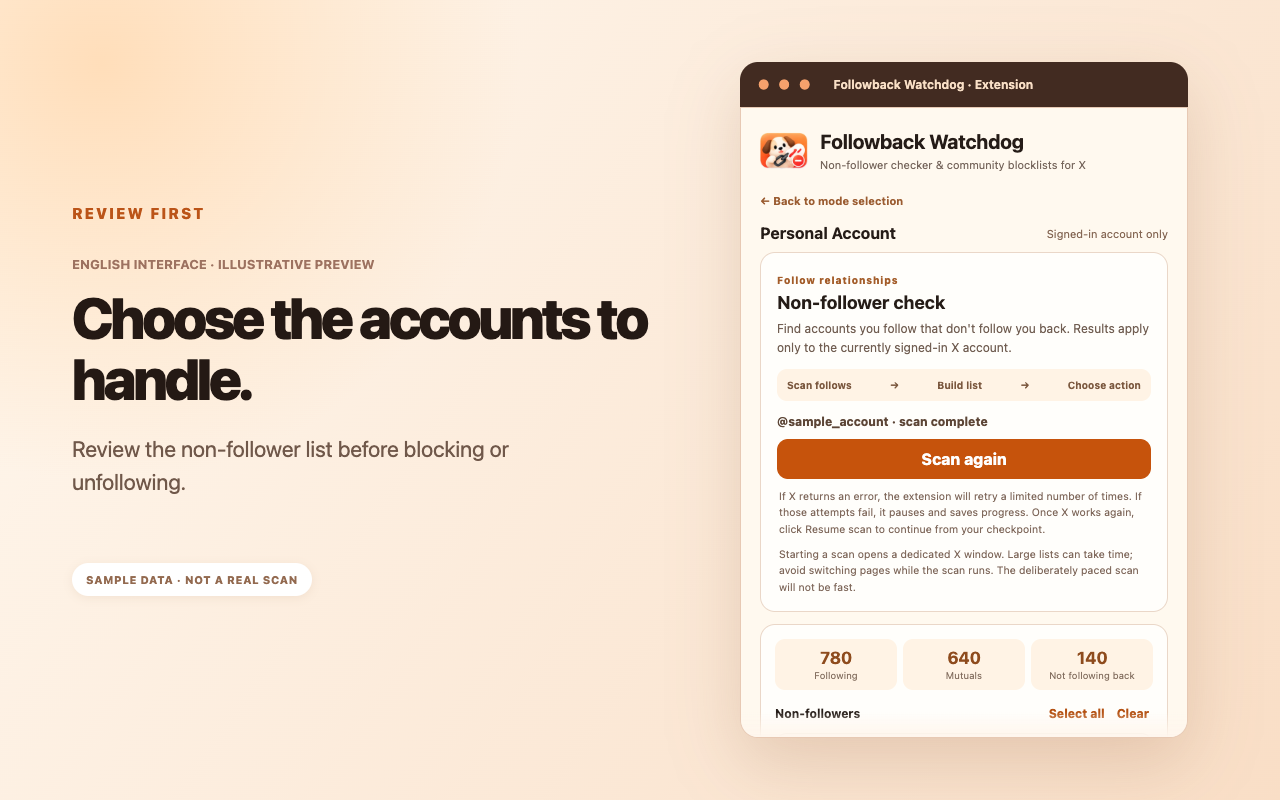
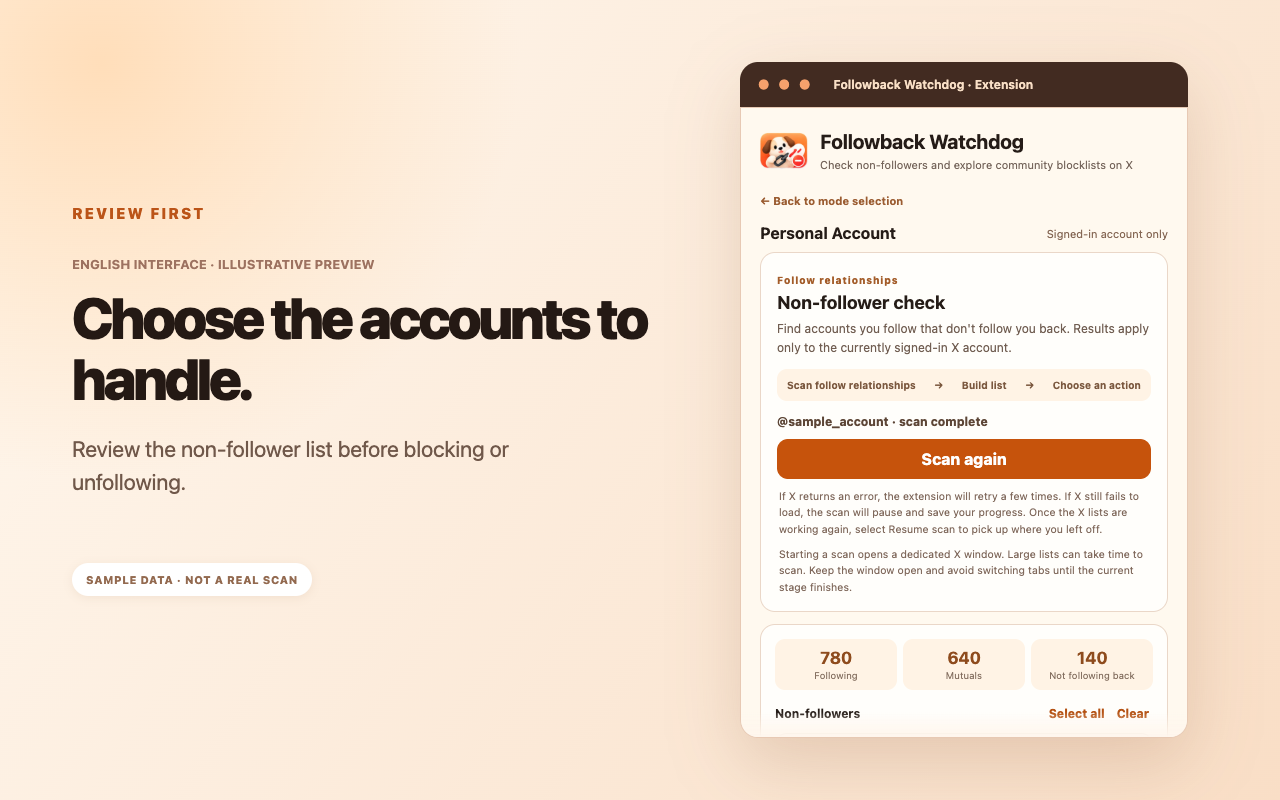
Proofread English copy and refresh six UI screenshots

diff --git a/en/index.html b/en/index.html
@@ -30,9 +30,9 @@
 <main id="top">
   <section class="hero hero-clean">
     <div class="hero-copy reveal">
-      <span class="eyebrow">X / Twitter follow-relationship tool</span>
+      <span class="eyebrow">Manage your follow relationships on X / Twitter</span>
       <h1>Two modes.<br><em>Two different needs.</em></h1>
-      <p class="lead">Followback Watchdog does more than check non-followers. Use<strong>Personal Account mode</strong>to review your current follow relationships, or use<strong>Community Blocklist mode</strong>to browse a shared blocklist curated from X community reports.</p>
+      <p class="lead">Followback Watchdog offers more than a non-follower check. Use <strong>Personal Account mode</strong> to review your current follow relationships, or use <strong>Community Blocklist mode</strong> to review a shared blocklist curated from reports by the Chinese-speaking X community.</p>
       <div class="trust"><span>No X password required</span><span>Doesn't access DMs</span><span>No automatic blocking</span></div>
     </div>
     <div class="hero-visual reveal">
@@ -63,14 +63,14 @@
       <article class="mode-card mode-private reveal">
         <span class="mode-label">Personal Account mode</span>
         <h3>Personal Account: Who do I follow that doesn't follow me back?</h3>
-        <p>This mode analyzes<strong>your own account</strong>. It compares your current Following and Followers lists to identify accounts you follow that do not currently follow you back.</p>
+        <p>This mode analyzes <strong>your own account</strong>. It compares your current Following and Followers lists to identify accounts you follow that do not currently follow you back.</p>
         <ul><li>Best for reviewing your own follow relationships</li><li>Shows current non-followers, not historical unfollows</li><li>You decide whether to block or unfollow after reviewing the list</li></ul>
       </article>
       <article class="mode-card mode-community reveal">
         <span class="mode-label">Community Blocklist mode</span>
-        <h3>Community Blocklist: Review accounts gathered from community reports</h3>
-        <p>This mode<strong>does not scan your private follow relationships</strong>. It presents a separate list based on public posts, follow-back discussions, voluntary submissions and manual review.</p>
-        <ul><li>Best for checking community reports before following or engaging</li><li>You can open the shared list without running a personal scan</li><li>If you want to avoid an account, you can choose to block it</li></ul>
+        <h3>Community Blocklist: Explore accounts reported by the community</h3>
+        <p>This mode <strong>does not scan your private follow relationships</strong>. It presents a separate list based on public posts, follow-back discussions, voluntary submissions and manual review.</p>
+        <ul><li>Useful for checking community reports before following or engaging</li><li>You can open the shared list without running a personal scan</li><li>If you want to avoid an account, you can choose to block it</li></ul>
       </article>
     </div>
   </section>
@@ -112,8 +112,8 @@
       <div class="community-focus-copy reveal">
         <span class="kicker">Why a shared list?</span>
         <h2 id="community-title">Review community reports before you follow</h2>
-        <p>Personal Account shows<strong>your own current relationships</strong>; Community Blocklist gathers public reports and user submissions in one place.</p>
-        <p>Before following back, engaging or deciding to follow someone, you can check the community list. If there's an account you would rather avoid, you can<strong>choose to block it</strong> without having to interact with it first.</p>
+        <p>Personal Account shows <strong>your own current relationships</strong>; Community Blocklist gathers public reports and user submissions in one place.</p>
+        <p>Before following back, engaging or deciding to follow someone, you can check the community list. If there's an account you would rather avoid, you can <strong>choose to block it</strong> without having to interact with it first.</p>
         <div class="community-caution">Community entries are for reference, not automatic judgments. You always decide and confirm whether to block.</div>
       </div>
       <div class="community-focus-visual reveal"><img src="assets/store-en-05-community.png" alt="English community blocklist sample interface"></div>
@@ -146,7 +146,7 @@
     </div>
   </section>
 
-  <aside class="deal-poster reveal" aria-labelledby="dealPosterTitle"><div class="deal-poster-copy"><span class="deal-poster-kicker">Creator rate estimate · Free</span><h2 id="dealPosterTitle">What could one sponsored post<br><em>from your account be worth?</em></h2><p>Estimate a potential sponsorship rate range using platform, audience size, engagement and content category.</p><div class="deal-poster-platforms"><span>X</span><span>Threads</span><span>YouTube</span><span>TikTok</span></div></div><div class="deal-poster-action"><span class="deal-poster-price"><small>Estimated sponsorship value</small><strong>$ ?</strong></span><a class="deal-poster-button" href="https://jiedanfadan.com/en/value-check">Try the free calculator <span aria-hidden="true">↗</span></a></div></aside>
+  <aside class="deal-poster reveal" aria-labelledby="dealPosterTitle"><div class="deal-poster-copy"><span class="deal-poster-kicker">Creator rate estimate · Free</span><h2 id="dealPosterTitle">How much could you charge<br> <em>for a sponsored post?</em></h2><p>Estimate a potential sponsorship rate range using platform, audience size, engagement and content category.</p><div class="deal-poster-platforms"><span>X</span><span>Threads</span><span>YouTube</span><span>TikTok</span></div></div><div class="deal-poster-action"><span class="deal-poster-price"><small>Estimated sponsorship value</small><strong>$ ?</strong></span><a class="deal-poster-button" href="https://jiedanfadan.com/en/value-check">Try the free calculator <span aria-hidden="true">↗</span></a></div></aside>
 
   <section class="section articles-section" aria-labelledby="articles-title">
     <div class="articles-head">
@@ -167,7 +167,7 @@
   </section>
 
 </main>
-<footer class="site-footer"><div class="footer-top"><div><strong>Followback Watchdog</strong><span>Check non-followers, review community lists, block or unfollow</span></div><div class="footer-links"><a href="#privacy">Privacy notice</a><a href="https://jiedanfadan.com/en/">Brand Deal Buddy</a><a href="https://jiedanfadan.com/en/value-check">Rate calculator</a><a href="https://x.com/woyongyuangeson/status/2098974760801870134?s=20" target="_blank" rel="noopener noreferrer">Feedback</a></div></div><details class="compliance"><summary>Additional notes</summary><div class="compliance-copy"><p>Followback Watchdog is not affiliated with X. A non-follower result reflects current follow relationships only; it does not establish that someone previously unfollowed you.</p><p>The extension reads and interacts with X web pages, so interface updates and loading failures can affect its operation. Actions are paced deliberately, but X may still restrict automated activity.</p><p>Before using automated actions, review <a href="https://help.x.com/en/rules-and-policies/x-automation" target="_blank" rel="noopener noreferrer">X's automation rules</a>。</p></div></details></footer>
+<footer class="site-footer"><div class="footer-top"><div><strong>Followback Watchdog</strong><span>Check non-followers, review community lists, block or unfollow</span></div><div class="footer-links"><a href="#privacy">Privacy notice</a><a href="https://jiedanfadan.com/en/">Brand Deal Buddy</a><a href="https://jiedanfadan.com/en/value-check">Rate calculator</a><a href="https://x.com/woyongyuangeson" target="_blank" rel="noopener noreferrer">Contact on X</a></div></div><details class="compliance"><summary>Additional notes</summary><div class="compliance-copy"><p>Followback Watchdog is not affiliated with X. A non-follower result reflects current follow relationships only; it does not establish that someone previously unfollowed you.</p><p>The extension reads and interacts with X web pages, so interface updates and loading failures can affect its operation. Actions are paced deliberately, but X may still restrict automated activity.</p><p>Before using automated actions, review <a href="https://help.x.com/en/rules-and-policies/x-automation" target="_blank" rel="noopener noreferrer">X's automation rules</a>.</p></div></details></footer>
 <script src="app.js" defer></script>
 <script type="module" src="https://static.cloudflareinsights.com/beacon.min.js/vce701823e78c4301a35b7e07294d87301792088814092" integrity="sha512-UKNk8GbxkABxKcXYuLkO16EleLGUkcvJWtpSNmExE0Too3ZaFAxTscNWEc1OdAv5/BikHawapSCaiD2XCmp+Bw==" data-cf-beacon='{"version":"2024.11.0","token":"52970abb04f5446e87ad08dc6fbe6f1e","r":1,"spa":2}' crossorigin="anonymous"></script>
 </body></html>

diff --git a/en/article/x-twitter-unfollow-checker-community-list/index.html b/en/article/x-twitter-unfollow-checker-community-list/index.html
@@ -15,7 +15,7 @@
 <img class="art" src="../../assets/store-en-06-dual-mode.png" alt="Illustrative English extension interface with sample data">
 <p class="date">English-language guide · Updated October 2026</p>
 <section><h2>Quick answers</h2><p class="block">To check who you currently follow without a follow-back, choose Personal Account mode. It compares the signed-in account's Following and Followers lists.</p><p class="block">To review accounts reported by other users, open Community Blocklist mode. The shared list is independent of your personal followers.</p><p class="block">Neither mode blocks anyone automatically. You must review accounts, select an action and confirm it. The extension does not request your X password or read private messages.</p></section>
-<section><h2>Two modes that solve different problems</h2><h3>Personal Account: Review your own current relationships</h3><p class="block">Personal Account mode looks only at the currently signed-in X account. It compares whom you follow against who follows you, then identifies current non-followers.</p><p class="block">This is a snapshot, not a historical record. Someone on the list might never have followed you, or might have unfollowed at some point. The tool cannot tell which without historical data.</p><h3>Community Blocklist: Review community reports</h3><p class="block">The second mode is a separately maintained list of accounts gathered from public posts, follow-back discussions, user submissions and manual review. It does not derive from your own personal follow relationships.</p><p class="block">You can browse it before following, following back or continuing to interact with an account. An entry is a reference for your consideration, not a definitive judgment of the account.</p><img class="art" src="../../assets/store-en-06-dual-mode.png" alt="Two English modes shown side by side"></section>
+<section><h2>Two modes that solve different problems</h2><h3>Personal Account: Review your own current relationships</h3><p class="block">Personal Account mode looks only at the currently signed-in X account. It compares whom you follow against who follows you, then identifies current non-followers.</p><p class="block">This is a snapshot, not a historical record. Someone on the list might never have followed you, or might have unfollowed at some point. The tool cannot tell which without historical data.</p><h3>Community Blocklist: Review community reports</h3><p class="block">The second mode is a separately maintained list drawn primarily from public posts and user submissions in the Chinese-speaking X community, with manual review. It does not derive from your own personal follow relationships.</p><p class="block">You can browse it before following, following back or continuing to interact with an account. An entry is a reference for your consideration, not a definitive judgment of the account.</p><img class="art" src="../../assets/store-en-06-dual-mode.png" alt="Two English modes shown side by side"></section>
 <section><h2>How to check non-followers on X</h2><h3>Step 1: Start a scan</h3><p class="block">Open Personal Account mode after signing into X. The extension reads your current Following and Followers lists in stages and saves progress. A larger account may take longer to finish, and reading is deliberately paced.</p><img class="art" src="../../assets/store-en-01-private-detect.png" alt="Sample English Personal Account scanning interface"><h3>Step 2: Review the result list</h3><p class="block">After both stages finish, the interface shows the counts of accounts followed, mutual follows and non-followers. The list is displayed before any action. Visit individual profiles if you need to verify the current relationship.</p><img class="art" src="../../assets/store-en-02-private-list.png" alt="Sample English non-follower list"><h3>Step 3: Choose an action</h3><p class="block">Select the accounts you want to process, then choose Block or Unfollow. Either action requires a separate confirmation; no accounts are acted on just because a scan finished.</p></section>
 <section><h2>How the community list works</h2><p class="block">The community list is maintained independently of a personal scan, using public reports and submissions. It may be useful before participating in follow-back threads or choosing which accounts to engage with.</p><p class="block">Use it to gather context, not to assume wrongdoing. You decide whether a listed account is relevant to you and whether you want to block it.</p><img class="art" src="../../assets/store-en-05-community.png" alt="Sample English Community Blocklist interface"></section>
 <section><h2>How batch actions and recovery work</h2><p class="block">Actions are paced rather than executed all at once. A batch handles up to 20 accounts and is followed by a default 30-minute cooldown, after which you choose whether to continue.</p><p class="block">If X displays an unexpected error or the relevant account state cannot be verified, the task may pause. A scan can retain its checkpoint so you do not have to start from the beginning.</p><img class="art" src="../../assets/store-en-03-batch.png" alt="English batch progress preview"><img class="art" src="../../assets/store-en-04-protection.png" alt="English checkpoint recovery preview"></section>

diff --git a/en/article/quguangou-x-unfollow-guide/index.html b/en/article/quguangou-x-unfollow-guide/index.html
@@ -15,7 +15,7 @@
 <img class="art" src="../../assets/store-en-01-private-detect.png" alt="Illustrative English extension interface with sample data">
 <p class="date">English-language guide · Updated October 2026</p>
 <section><h2>Can X directly show a history of unfollows?</h2><p class="block">X does not offer an ordinary user a complete native list of every past unfollow event with dates. You can view current Following and Followers relationships, or compare with data you saved earlier.</p><p class="block">Some tracking tools take periodic snapshots of followers and compare them over time. Such a tool can detect changes after snapshot collection begins but cannot recover older events that were never recorded.</p><p class="block">Someone not following you back today is not necessarily someone who previously followed and then unfollowed you. These are distinct situations.</p></section>
-<section><h2>What is Followback Watchdog?</h2><p class="block">Followback Watchdog offers Personal Account mode to check current non-followers and Community Blocklist mode to browse shared community reports. It does not claim to know everyone who recently unfollowed you.</p><p class="block">The community list was developed from public X community discussions and voluntary submissions, with a review and correction process. It is an information source rather than proof of an account's motives or actions.</p></section>
+<section><h2>What is Followback Watchdog?</h2><p class="block">Followback Watchdog offers Personal Account mode to check current non-followers and Community Blocklist mode to browse shared community reports. It does not claim to know everyone who recently unfollowed you.</p><p class="block">The community list grew out of public discussions and voluntary submissions in the Chinese-speaking X community, with a review and correction process. It is an information source rather than proof of an account's motives or actions.</p></section>
 <section><h2>Where community reports can come from</h2><h3>1. Public posts</h3><p class="block">Public posts discussing a possible follow-back-and-unfollow incident, especially with verifiable context, can provide a lead for further review.</p><h3>2. Follow-back discussions</h3><p class="block">Accounts taking part in explicit follow-back threads may be flagged for further review when public account behavior raises questions. Follower/following ratios alone do not establish what happened.</p><h3>3. User submissions</h3><p class="block">Users can provide public post links, screenshots or timelines that help reviewers understand an account report. Listed accounts should also have a way to request correction or removal when context changes.</p></section>
 <section><h2>How to use the extension</h2><h3>Step 1: Install the browser extension</h3><p class="block">Choose the Chrome, Edge or Firefox listing from the website. Store versions can trail the latest description while updates undergo review.</p><h3>Step 2: Choose a mode and review the list</h3><p class="block">Open Community Blocklist to inspect shared entries, or Personal Account to compare your signed-in account's current relationships.</p><img class="art" src="../../assets/store-en-06-dual-mode.png" alt="English feature preview"><h3>Step 3: Verify before you act</h3><p class="block">When you see an account you recognize, open its profile and review the current relationship and available context. The tool should support, not replace, your judgment.</p><h3>Step 4: Confirm a paced task</h3><p class="block">Blocking or unfollowing does not begin until you select accounts and confirm the action. Tasks proceed in paced batches and can pause if the expected X controls cannot be verified.</p><img class="art" src="../../assets/store-en-03-batch.png" alt="English feature preview"><h3>Step 5: Check for list updates later</h3><p class="block">The maintained community list can be updated without rebuilding every browser package. The extension may retrieve the latest available list when it runs.</p></section>
 <section><h2>Why follower/following ratios are not proof</h2><p class="block">A ratio describes how an account looks now. Someone who follows 1,000 accounts and has 3,000 followers might simply use X that way. That ratio tells you nothing conclusive about whether they once followed and later unfollowed a particular user.</p><ul><li>Treat ratios as possible context, not a verdict.</li><li>Look at the original follow-back discussion and public posts.</li><li>Consider available screenshots and timelines before drawing conclusions.</li><li>Do not automatically label or submit an account based on a single numerical ratio.</li></ul><p class="block">Because of this, the list emphasizes reviewed public leads rather than pretending to offer a perfect automated judgment.</p></section>
